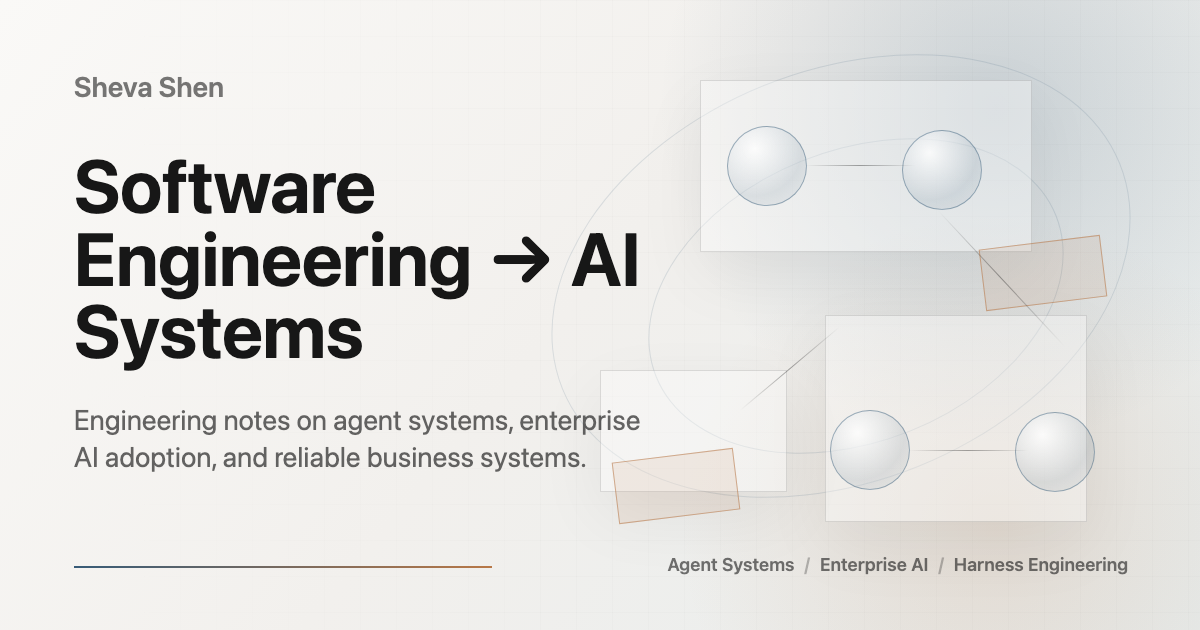
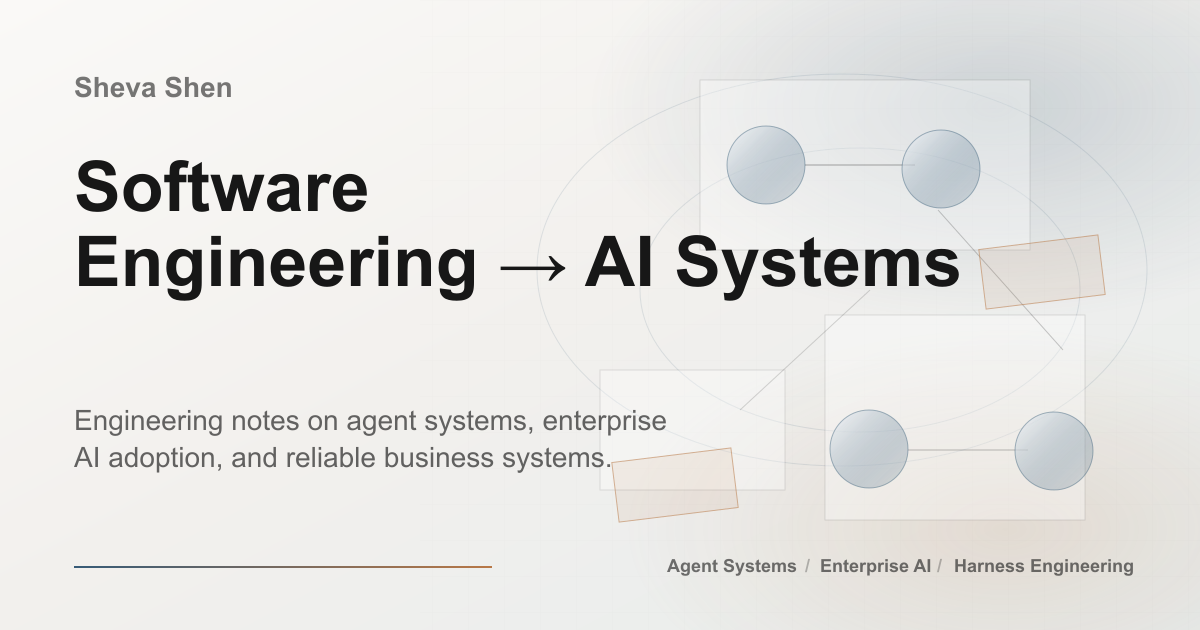
Keep AI Systems together in titles

diff --git a/src/styles/global.css b/src/styles/global.css
@@ -59,6 +59,10 @@ textarea {
   letter-spacing: 0;
 }
 
+.text-nowrap {
+  white-space: nowrap;
+}
+
 a {
   color: inherit;
   text-decoration-color: var(--line-strong);
